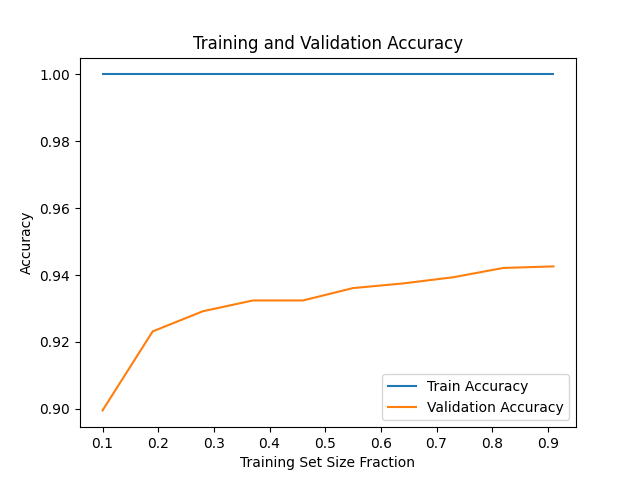
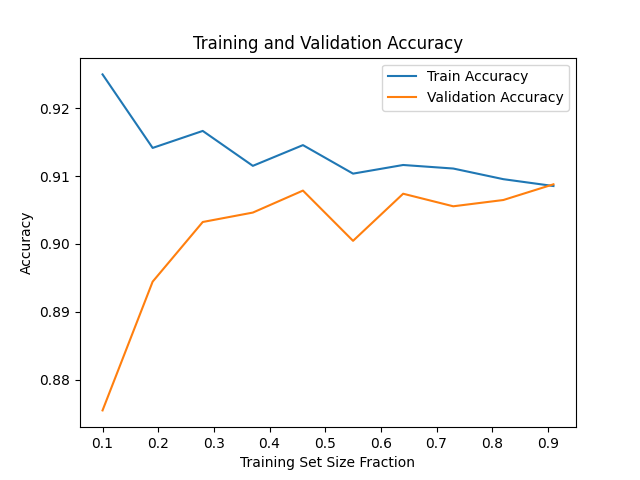
Update random forest model and results

diff --git a/Classification Models/random_forest_v2.py b/Classification Models/random_forest_v2.py
@@ -26,9 +26,11 @@ print("Dataset split into training, validation, and test sets.")
 
 # Definícia modelu Random Forest
 rf_model = RandomForestClassifier(
-    n_estimators=1000,  # Počet stromov (hyperparameter na ladenie)
-    max_depth=None,    # Maximálna hĺbka stromov (hyperparameter na ladenie)
-    random_state=42    # Pre reprodukovateľnosť
+    n_estimators=75,  # Počet stromov (hyperparameter na ladenie)
+    max_depth=8,    # Maximálna hĺbka stromov (hyperparameter na ladenie)
+    random_state=42,    # Pre reprodukovateľnosť
+    min_samples_split=5,
+    min_samples_leaf=2
 )
 print("RandomForestClassifier initialized.")
 
